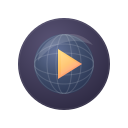
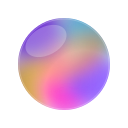
Rework branding as colorful orb

diff --git a/page.js b/page.js
@@ -1005,8 +1005,10 @@
         height: 18px;
         flex: 0 0 18px;
         border-radius: 999px;
-        background: radial-gradient(circle at 38% 28%, #5a5476 0%, #2d2942 100%);
-        box-shadow: inset 0 0 0 1px rgba(255, 255, 255, 0.08), 0 3px 8px rgba(0, 0, 0, 0.22);
+        background:
+          radial-gradient(circle at 72% 78%, rgba(83, 58, 133, 0) 56%, rgba(83, 58, 133, 0.34) 100%),
+          radial-gradient(circle at 36% 30%, #ffffff 0%, #f5ebff 46%, #d8c7ff 100%);
+        box-shadow: inset 0 0 0 1px rgba(255, 255, 255, 0.22), 0 3px 8px rgba(0, 0, 0, 0.18);
         overflow: hidden;
       }
 
@@ -1019,23 +1021,22 @@
         height: 14px;
         border-radius: 999px;
         background:
-          linear-gradient(rgba(255, 255, 255, 0.12), rgba(255, 255, 255, 0.12)) center / 100% 1px no-repeat,
-          radial-gradient(ellipse 34% 100% at 50% 50%, transparent 58%, rgba(255, 255, 255, 0.14) 61%, transparent 64%),
-          radial-gradient(ellipse 100% 34% at 50% 50%, transparent 58%, rgba(255, 255, 255, 0.12) 61%, transparent 64%),
-          radial-gradient(circle at 36% 30%, #66749b 0%, #43506f 54%, #2d3957 100%);
-        box-shadow: inset 0 0 0 1px rgba(255, 255, 255, 0.12);
+          radial-gradient(circle at 22% 18%, rgba(255, 255, 255, 0.88) 0%, rgba(255, 255, 255, 0.2) 18%, transparent 34%),
+          radial-gradient(circle at 24% 22%, #7d2fff 0%, transparent 36%),
+          radial-gradient(circle at 22% 78%, #ffca3e 0%, #ff8a42 34%, transparent 54%),
+          radial-gradient(circle at 52% 84%, #ff3ecf 0%, transparent 34%),
+          radial-gradient(circle at 84% 22%, #45ebff 0%, transparent 38%),
+          radial-gradient(circle at 84% 72%, #8b5bff 0%, transparent 34%);
+        filter: blur(0.2px);
       }
 
       .dq-queue-player__brand-mark::after {
         content: "";
         position: absolute;
-        left: 8px;
-        top: 5px;
-        width: 6px;
-        height: 8px;
-        background: linear-gradient(180deg, #ffe994, #ffbf63 58%, #ff6f91);
-        clip-path: polygon(0 0, 100% 50%, 0 100%);
-        filter: drop-shadow(0 0 1px rgba(0, 0, 0, 0.2));
+        inset: 2px;
+        border-radius: 999px;
+        background: linear-gradient(145deg, rgba(255, 255, 255, 0.24), rgba(255, 255, 255, 0) 34%);
+        box-shadow: inset 0 0 0 1px rgba(255, 255, 255, 0.16);
       }
 
       .dq-queue-player__title {
